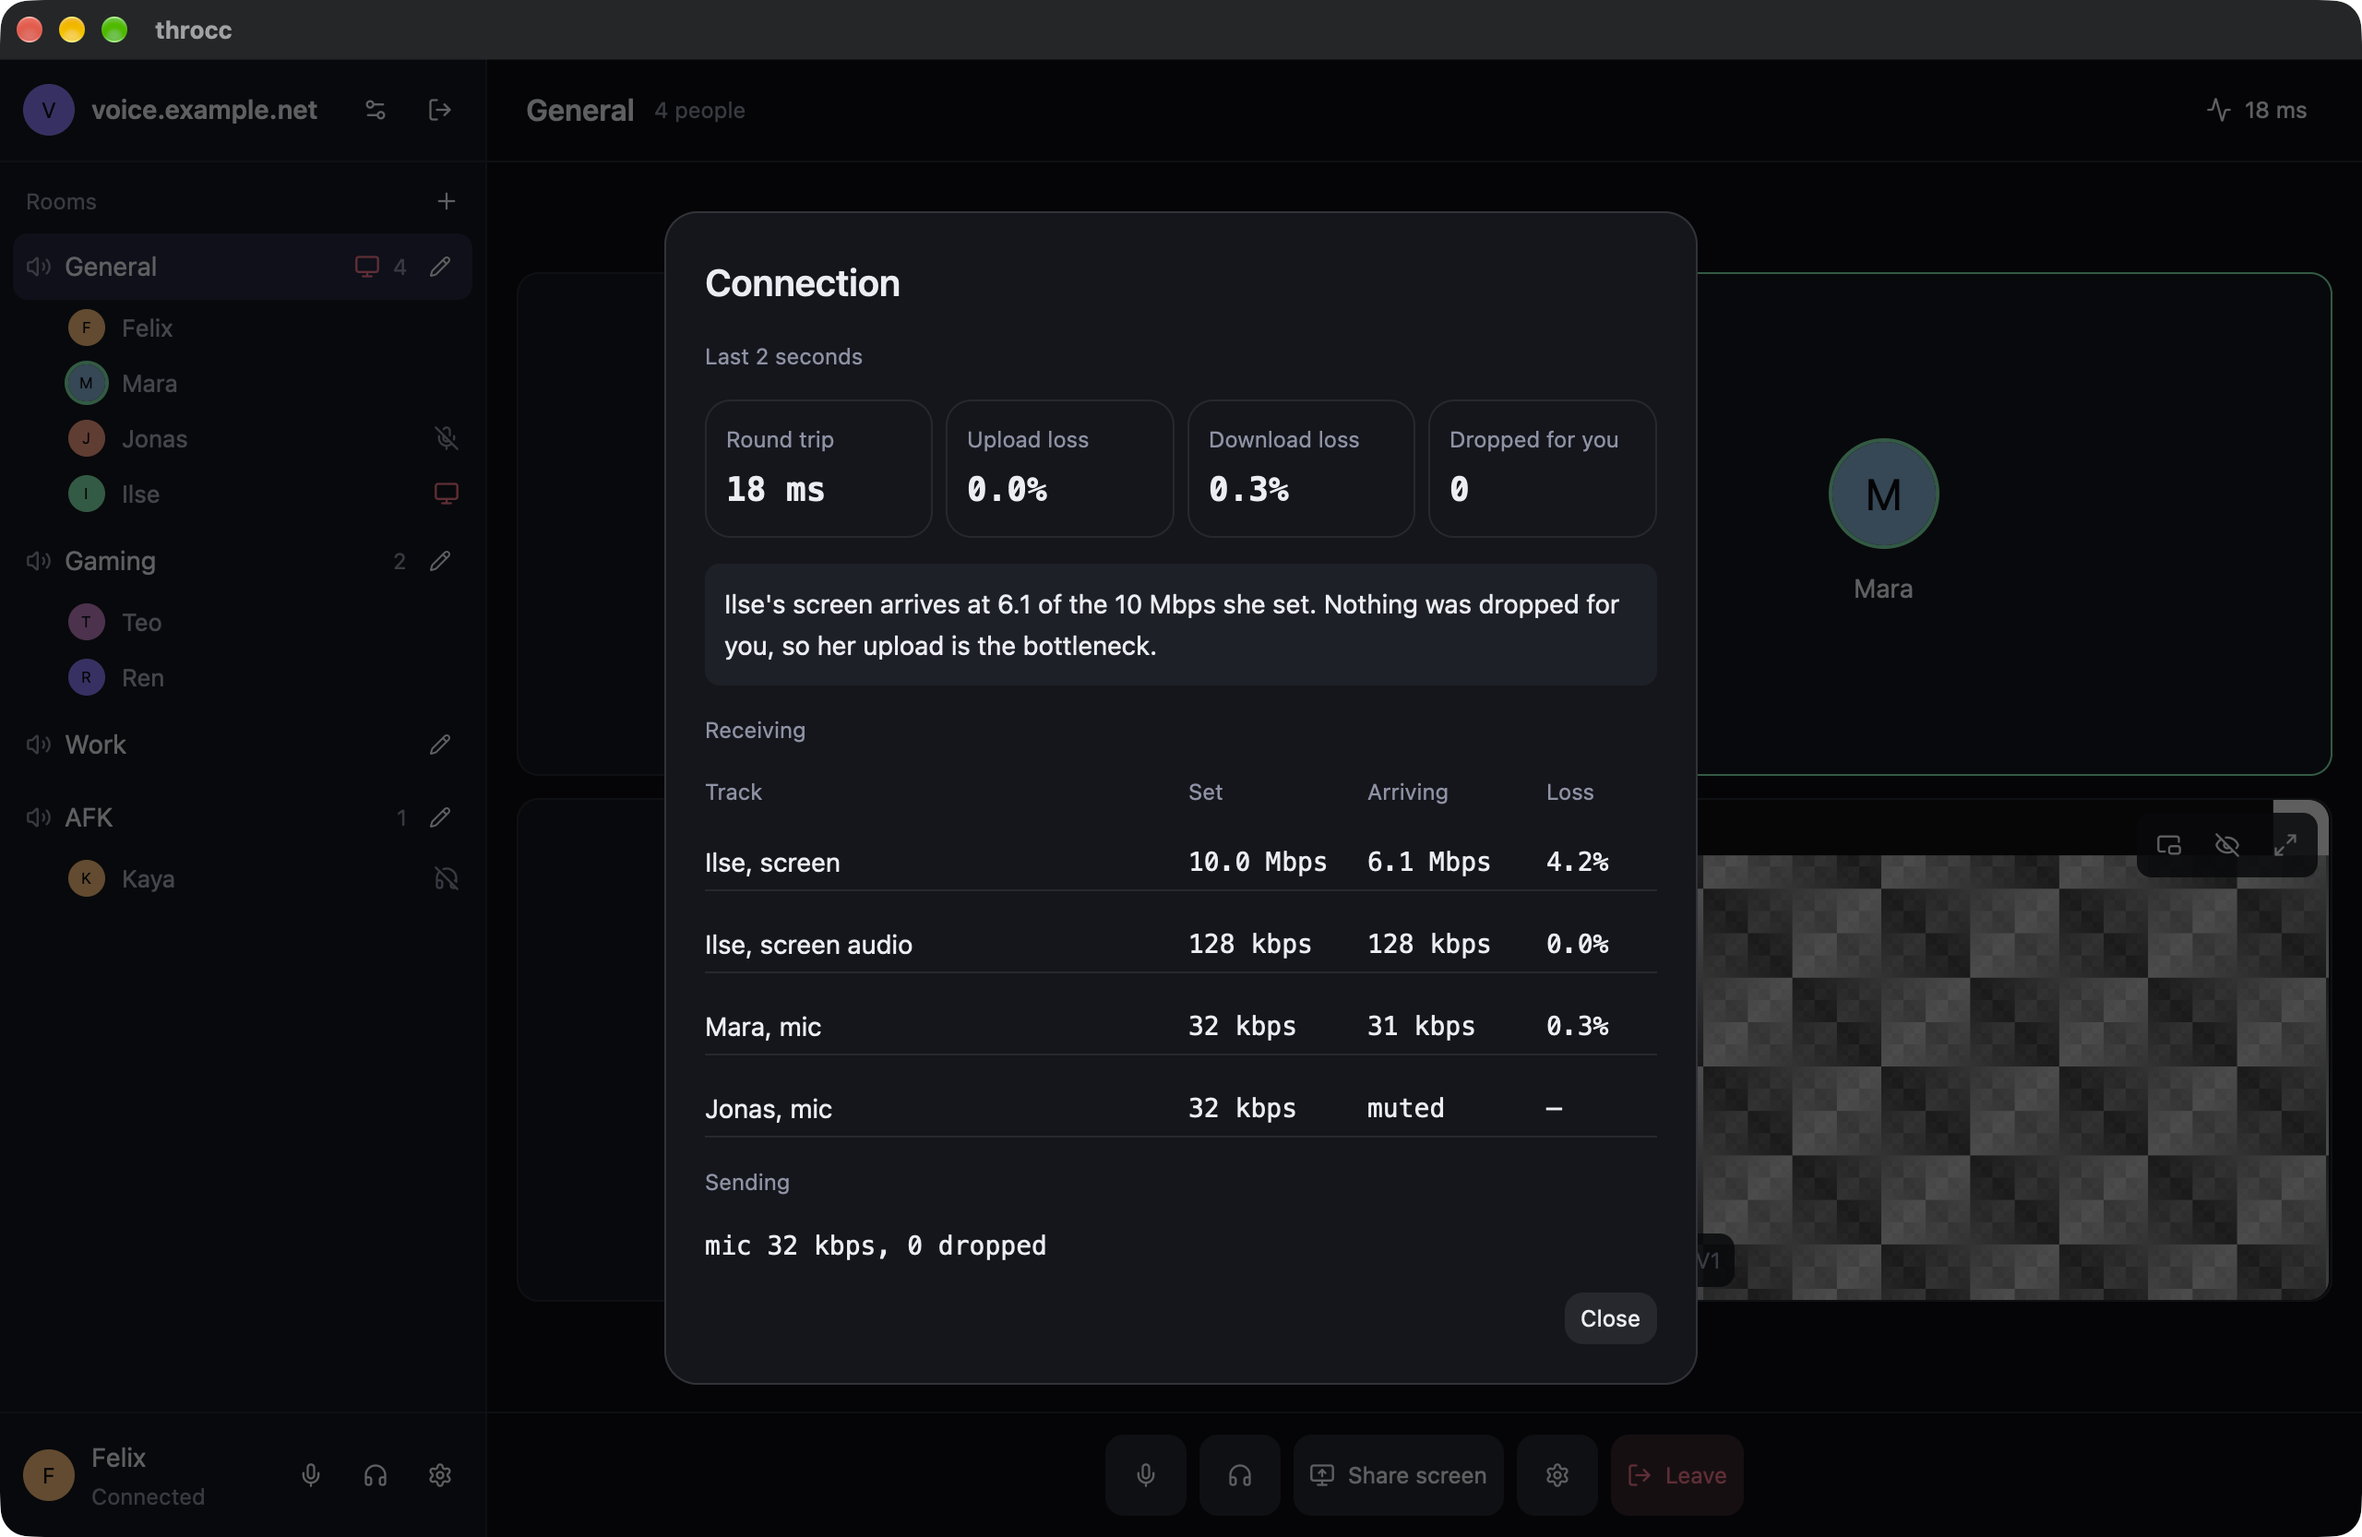
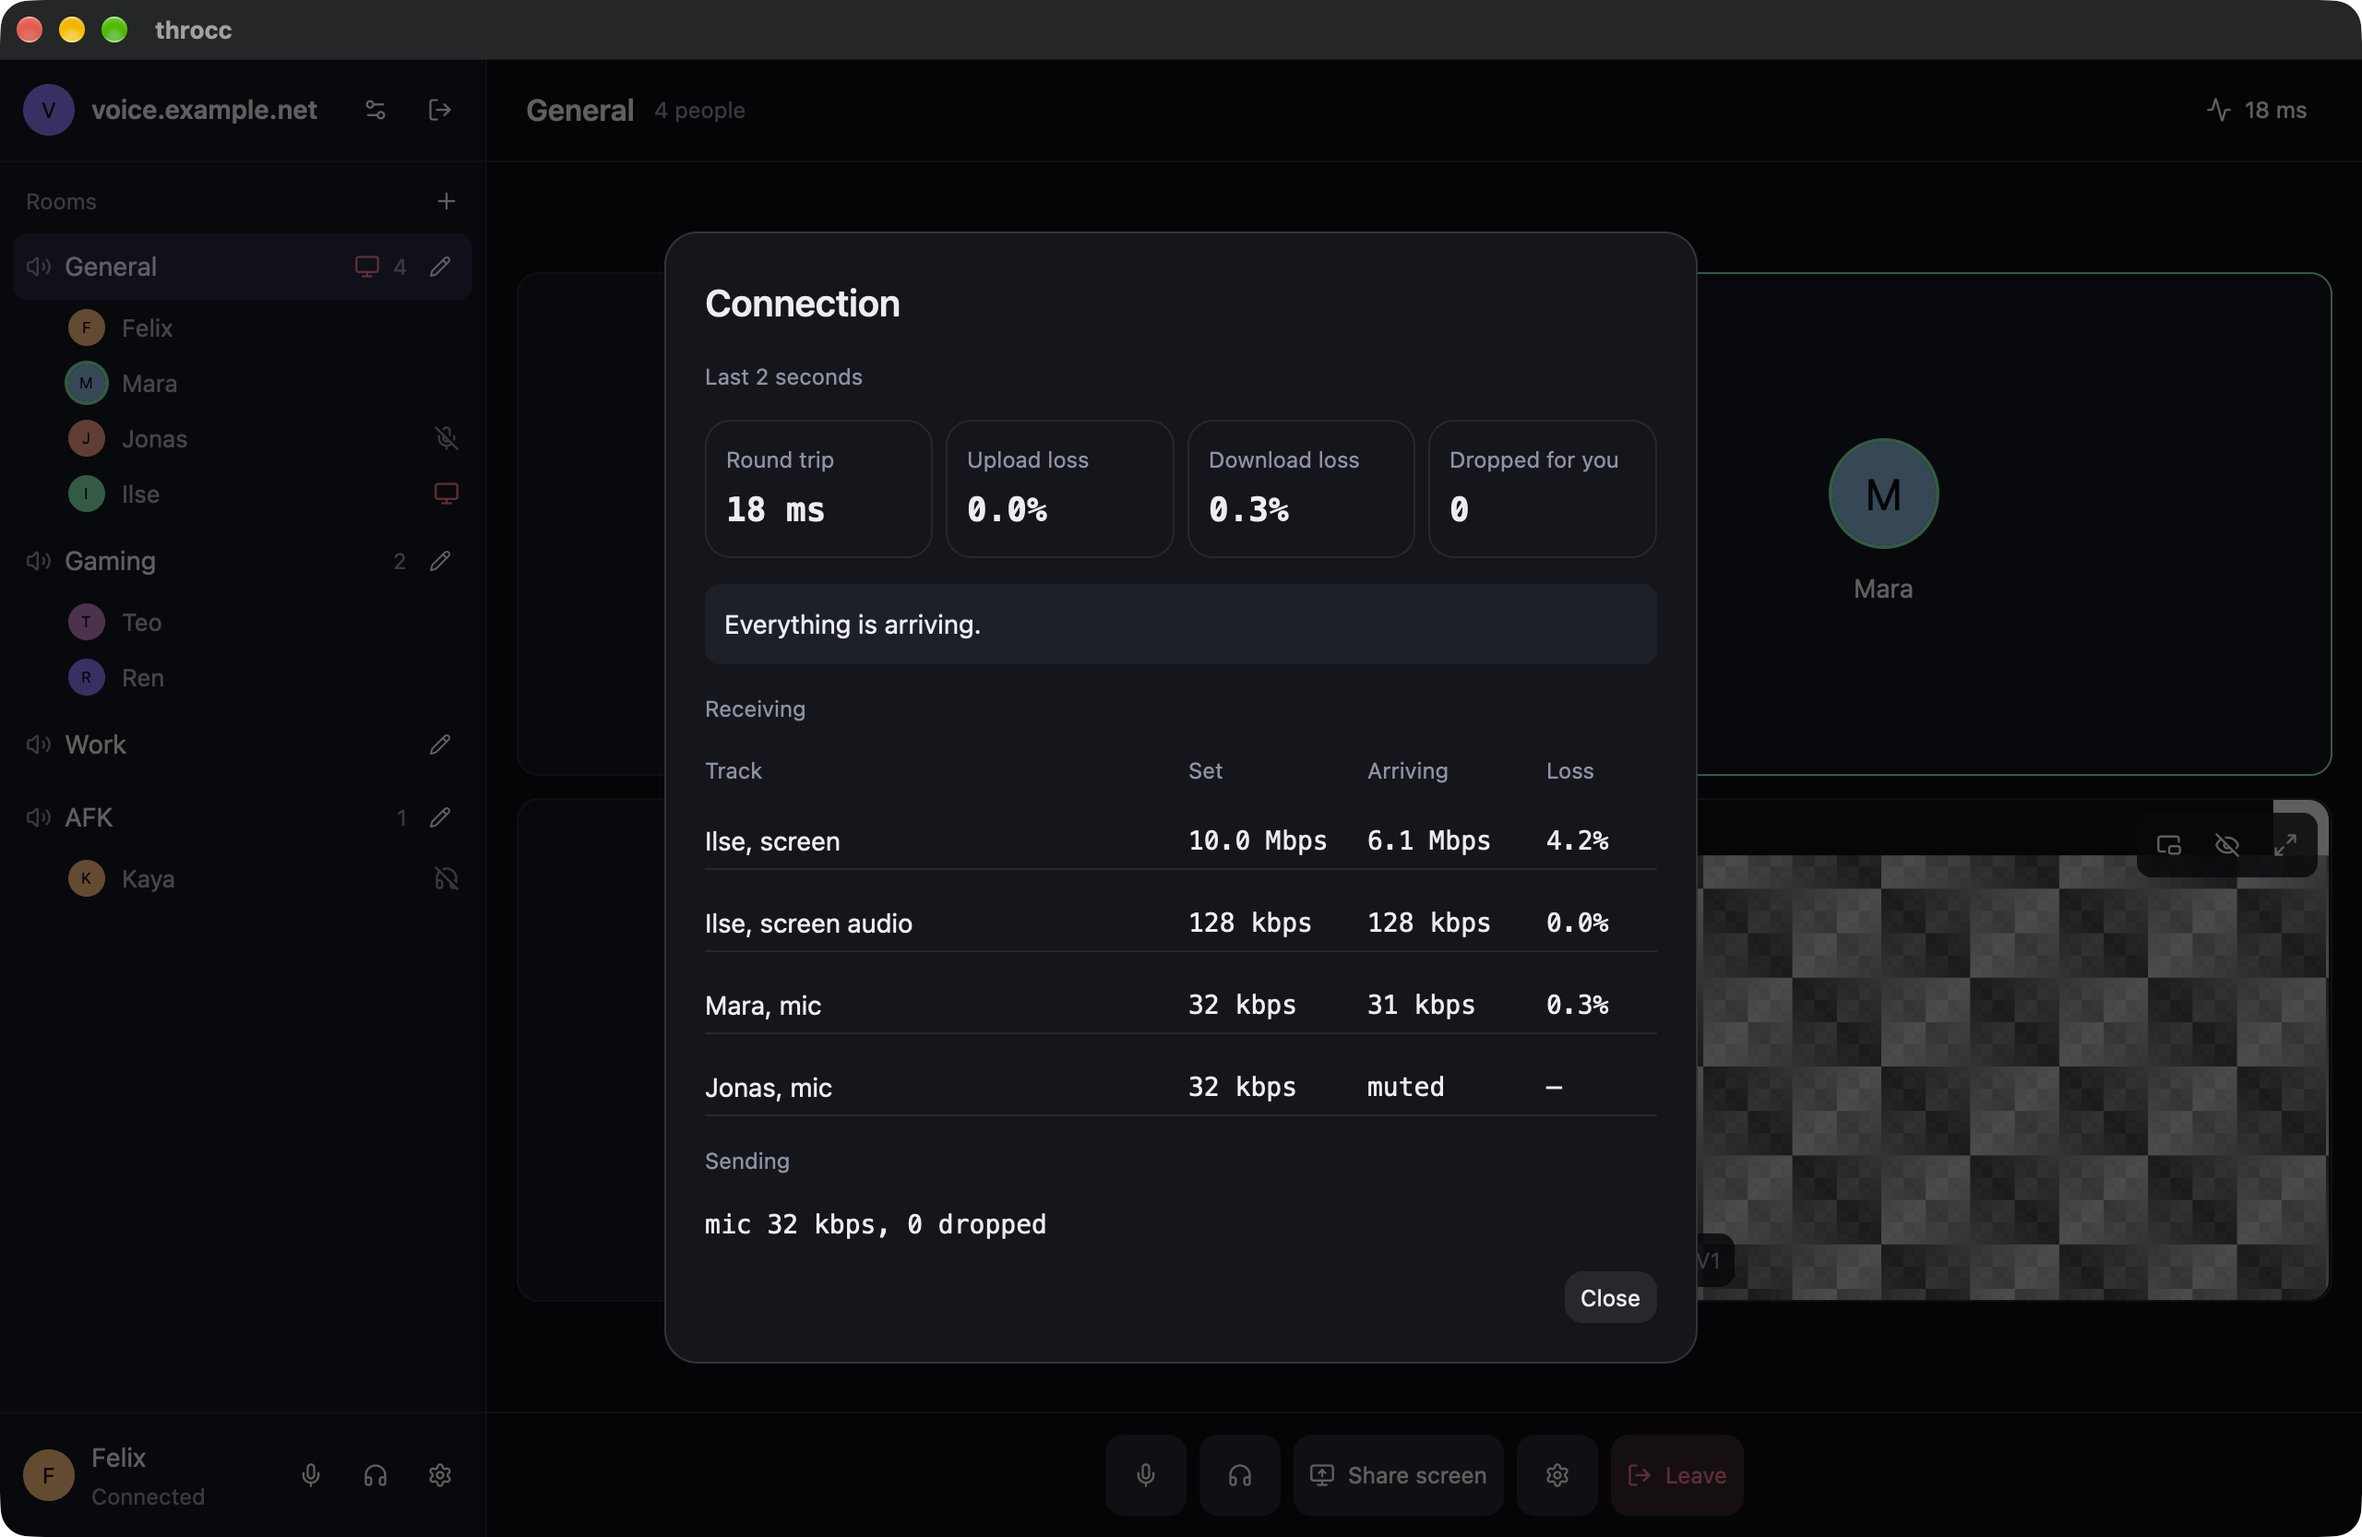
fix(client): drop the slow-sender verdict, a still screen trips it

diff --git a/crates/throcc-client-core/src/client.rs b/crates/throcc-client-core/src/client.rs
@@ -461,29 +461,59 @@ fn sample_state() -> State {
         p.deafened = true;
     }
     State {
-        server: Some(ServerView { address: "voice.example.net".into(), fingerprint: Fingerprint([0x2c; 32]) }),
+        server: Some(ServerView {
+            address: "voice.example.net".into(),
+            fingerprint: Fingerprint([0x2c; 32]),
+        }),
         connection: ConnectionStatus::Connected,
         me: Some(UserId(1)),
         role: Some(Role::Admin),
         rooms: ["General", "Gaming", "Work", "AFK"]
             .iter()
             .enumerate()
-            .map(|(i, name)| RoomView { id: RoomId(i as u64 + 1), name: (*name).into() })
+            .map(|(i, name)| RoomView {
+                id: RoomId(i as u64 + 1),
+                name: (*name).into(),
+            })
             .collect(),
         people,
         current: None,
-        key_warnings: vec![KeyWarning { user: UserId(3), pinned: Fingerprint([0x7c; 32]), now: Fingerprint([0xb8; 32]) }],
+        key_warnings: vec![KeyWarning {
+            user: UserId(3),
+            pinned: Fingerprint([0x7c; 32]),
+            now: Fingerprint([0xb8; 32]),
+        }],
         health: Health {
             rtt_ms: 18.0,
             upload_loss: 0.0,
             download_loss: 0.3,
             dropped_for_you: 0,
-            verdict: "Ilse's screen arrives at 6.1 of the 10 Mbps she set. Nothing was dropped for you, so her upload is the bottleneck.".into(),
+            verdict: "Everything is arriving.".into(),
             receiving: vec![
-                TrackHealth { label: "Ilse, screen".into(), set_kbps: Some(10_000), arriving_kbps: Some(6_100), loss: Some(4.2) },
-                TrackHealth { label: "Ilse, screen audio".into(), set_kbps: Some(128), arriving_kbps: Some(128), loss: Some(0.0) },
-                TrackHealth { label: "Mara, mic".into(), set_kbps: Some(32), arriving_kbps: Some(31), loss: Some(0.3) },
-                TrackHealth { label: "Jonas, mic".into(), set_kbps: Some(32), arriving_kbps: None, loss: None },
+                TrackHealth {
+                    label: "Ilse, screen".into(),
+                    set_kbps: Some(10_000),
+                    arriving_kbps: Some(6_100),
+                    loss: Some(4.2),
+                },
+                TrackHealth {
+                    label: "Ilse, screen audio".into(),
+                    set_kbps: Some(128),
+                    arriving_kbps: Some(128),
+                    loss: Some(0.0),
+                },
+                TrackHealth {
+                    label: "Mara, mic".into(),
+                    set_kbps: Some(32),
+                    arriving_kbps: Some(31),
+                    loss: Some(0.3),
+                },
+                TrackHealth {
+                    label: "Jonas, mic".into(),
+                    set_kbps: Some(32),
+                    arriving_kbps: None,
+                    loss: None,
+                },
             ],
             sending: "mic 32 kbps, 0 dropped".into(),
         },

diff --git a/crates/throcc-client-core/src/session.rs b/crates/throcc-client-core/src/session.rs
@@ -1065,7 +1065,7 @@ impl Session {
             upload_loss,
             download_loss,
             dropped_for_you: dropped,
-            verdict: verdict(&rows, dropped, new_local_drops, download_loss),
+            verdict: verdict(dropped, new_local_drops, download_loss),
             sending: sending(&self.media, new_local_drops),
             receiving: rows,
         };
@@ -1116,12 +1116,7 @@ fn percent(part: u64, whole: u64) -> f32 {
 }
 
 /// One plain-language sentence on what limits the call right now (PLAN §5.11).
-fn verdict(
-    rows: &[TrackHealth],
-    dropped_for_you: u32,
-    local_drops: u64,
-    download_loss: f32,
-) -> String {
+fn verdict(dropped_for_you: u32, local_drops: u64, download_loss: f32) -> String {
     if dropped_for_you > 0 {
         return format!(
             "{dropped_for_you} frames were dropped for you in the last 2 s. Your download can't carry everything you watch."
@@ -1129,19 +1124,6 @@ fn verdict(
     }
     if local_drops > 0 {
         return "Your upload can't carry your share's bitrate, so frames are dropped before they leave.".into();
-    }
-    let slow = rows.iter().find(|r| match (r.set_kbps, r.arriving_kbps) {
-        (Some(set), Some(arriving)) => set >= 1000 && arriving * 10 < set * 8,
-        _ => false,
-    });
-    if let Some(row) = slow {
-        let mbps = |k: u32| f64::from(k) / 1000.0;
-        return format!(
-            "{} arrives at {:.1} of the {:.0} Mbps set. Nothing was dropped for you, so the sender's upload is the bottleneck.",
-            row.label,
-            mbps(row.arriving_kbps.unwrap_or(0)),
-            mbps(row.set_kbps.unwrap_or(0))
-        );
     }
     if download_loss > 2.0 {
         return format!("{download_loss:.1}% of packets are lost between the server and you.");
@@ -1172,20 +1154,9 @@ mod tests {
 
     #[test]
     fn verdict_names_the_bottleneck() {
-        let row = |set, arriving| TrackHealth {
-            label: "Ilse, screen".into(),
-            set_kbps: Some(set),
-            arriving_kbps: Some(arriving),
-            loss: Some(0.0),
-        };
-        assert!(
-            verdict(&[row(10_000, 6_100)], 0, 0, 0.0).contains("arrives at 6.1 of the 10 Mbps")
-        );
-        assert!(verdict(&[row(10_000, 6_100)], 3, 0, 0.0).contains("dropped for you"));
-        assert_eq!(
-            verdict(&[row(10_000, 9_900)], 0, 0, 0.0),
-            "Everything is arriving."
-        );
-        assert!(verdict(&[], 0, 0, 4.0).contains("4.0% of packets"));
+        assert!(verdict(3, 0, 0.0).contains("dropped for you"));
+        assert!(verdict(0, 2, 0.0).contains("Your upload"));
+        assert!(verdict(0, 0, 4.0).contains("4.0% of packets"));
+        assert_eq!(verdict(0, 0, 0.0), "Everything is arriving.");
     }
 }

diff --git a/docs/DECISIONS.md b/docs/DECISIONS.md
@@ -306,3 +306,7 @@ Netem results after the fixes: all checks pass. With 40 ± 30 ms jitter on the s
 - **Decoding tries the GPU first:** FFmpeg's own decoder for the codec with a hardware device (VideoToolbox on macOS, VA-API then CUDA on Linux, D3D11VA then CUDA on Windows), and the software decoders only when no device opens. FFmpeg's default format choice picks the device's format, and the decoded surface is copied back to NV12. A hardware decoder that fails on a unit is replaced by software, which decodes that same unit, since FFmpeg's own AV1 decoder has no software path. The ffmpeg build enables NVDEC wherever it enables NVENC.
 - **Fullscreen means the share fills the window,** not just a fullscreen window around the normal UI, and looks like a video player rather than the app, as the human asked: black around the picture in every theme, who and what at the top and the buttons at the bottom, each over a dark fade. They show for three seconds after the pointer moves; Escape leaves. Pop-outs do the same. Every stream tile has the button, in the grid too.
 - **Settings screens share the main screen's top bars:** a back arrow and "Settings" or "Server settings" over the page links, and the page's title over the page. Leaving a server stays on the main screen's header only.
+
+## 2026-10-31 No slow-sender verdict
+
+- **The connection verdict no longer blames the sender's upload when a share arrives below its set bitrate,** as the human asked. A still desktop encodes far below the set rate and fills up again when something moves, so the gap alone was a false alarm. The per-track table still shows set and arriving rates side by side.

diff --git a/PLAN.md b/PLAN.md
@@ -467,7 +467,7 @@ Self-view takes a second reference before the encoder and never touches the netw
 | Server egress drops | `LinkStats` every 2 s | Your downlink can't carry what you watch |
 | Path loss | `seq` gaps the server didn't cause | Loss between the server and you, or upstream |
 | Late fragments | Fragments arriving after their unit was abandoned | The reorder window is too tight |
-| Configured vs arriving | `ShareConfig.kbps` against measured rate | Sender uplink vs your own link |
+| Configured vs arriving | `ShareConfig.kbps` against measured rate | Shown per track only: a still screen encodes far below its configured rate, so a gap alone says nothing |
 | Decrypt failures | AEAD failures and missing keys | Key distribution broken or lagging |
 
 The connection panel (mockup *Connection*) turns these into one plain-language verdict.
